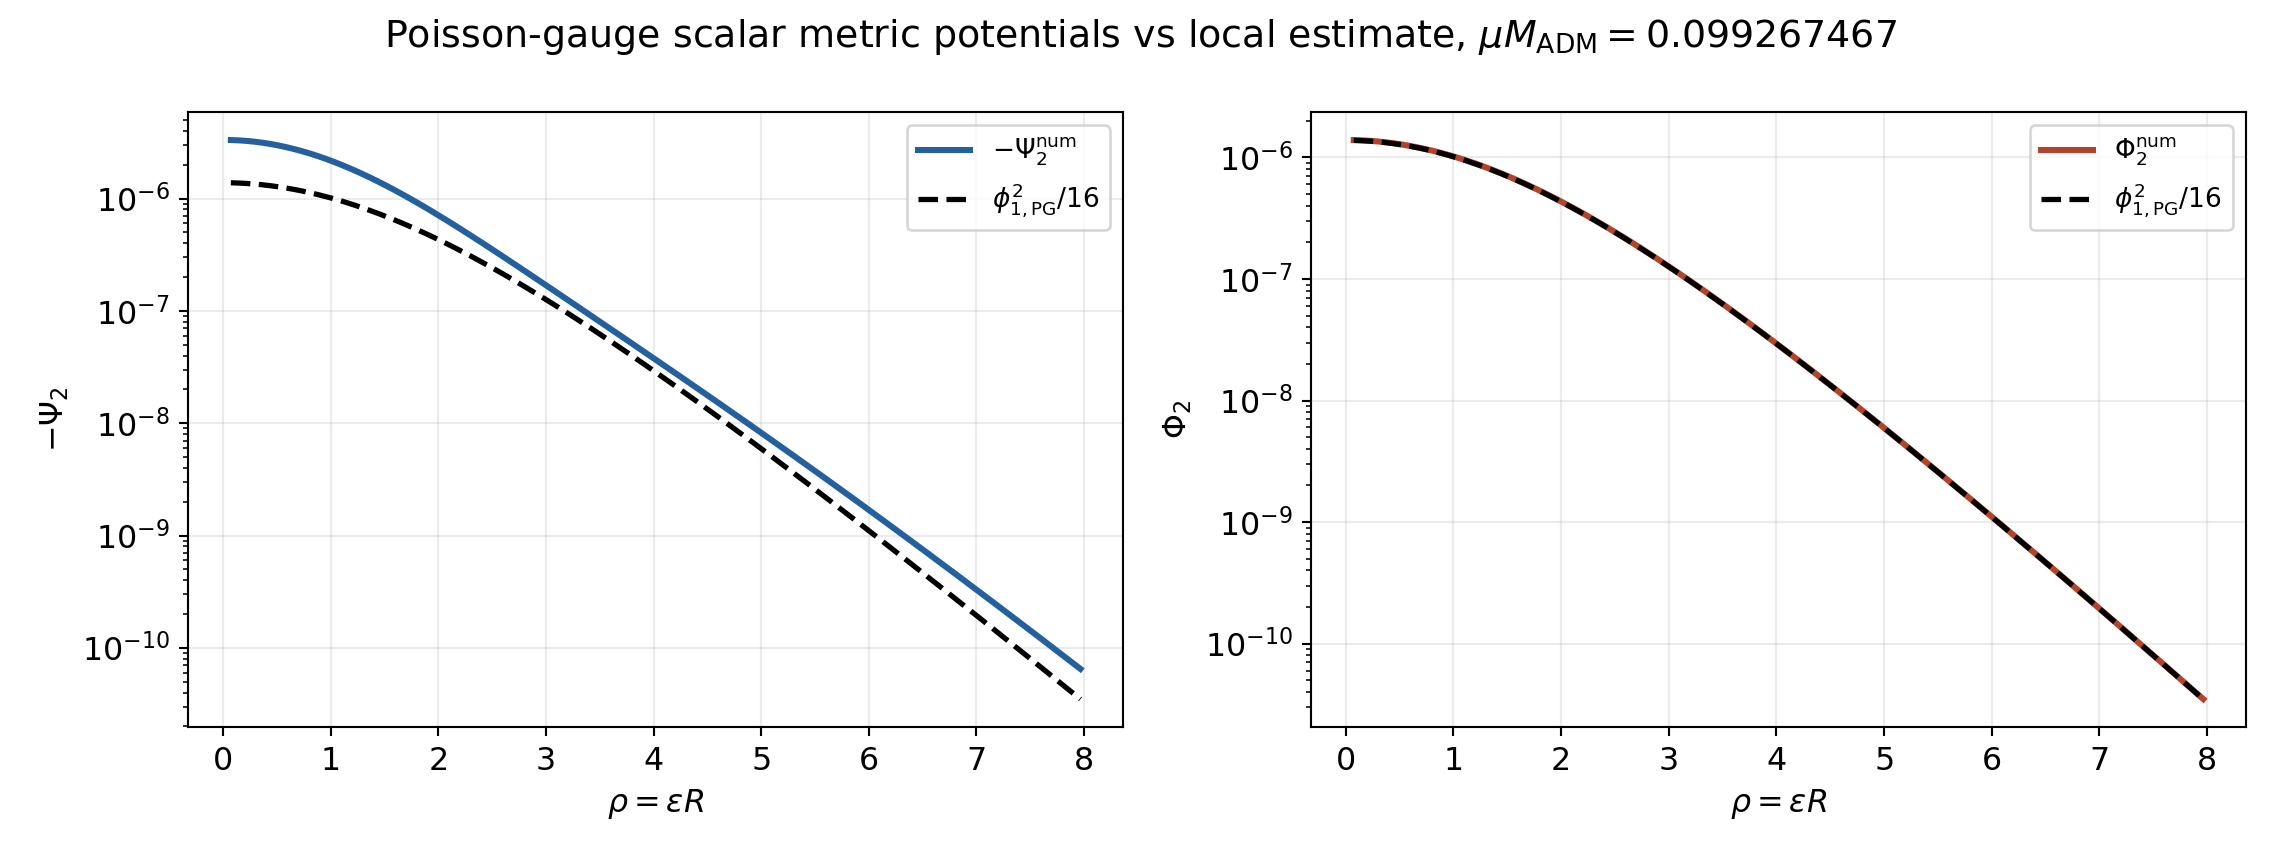
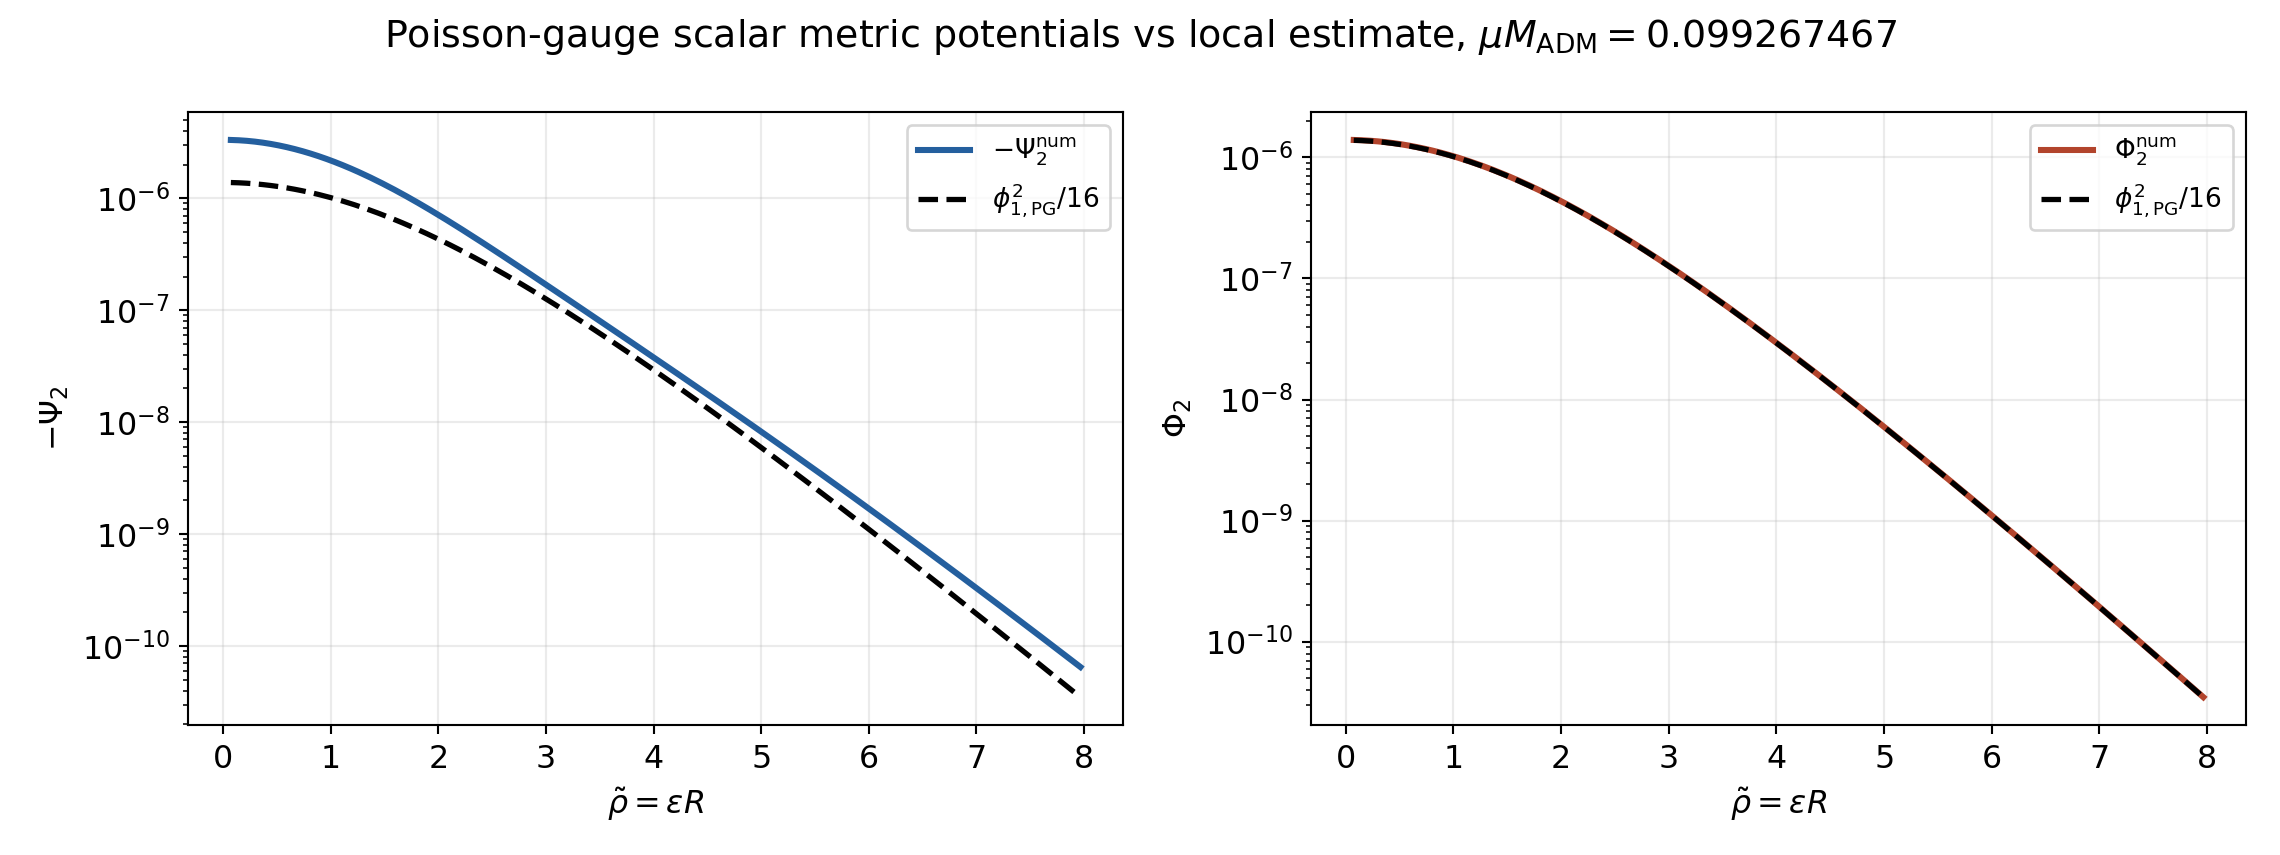
Update README

diff --git a/examples/compare_scalar_local_estimate.py b/examples/compare_scalar_local_estimate.py
@@ -244,7 +244,7 @@ def main() -> None:
         label=r"$\phi_{1,\mathrm{PG}}^2/16$",
     )
     axes[0].set_yscale("log")
-    axes[0].set_xlabel(r"$\rho=\epsilon R$")
+    axes[0].set_xlabel(r"$\tilde{\rho}=\epsilon R$")
     axes[0].set_ylabel(r"$-\Psi_2$")
     axes[0].grid(True, alpha=0.25)
     axes[0].legend(fontsize=10)
@@ -265,7 +265,7 @@ def main() -> None:
         label=r"$\phi_{1,\mathrm{PG}}^2/16$",
     )
     axes[1].set_yscale("log")
-    axes[1].set_xlabel(r"$\rho=\epsilon R$")
+    axes[1].set_xlabel(r"$\tilde{\rho}=\epsilon R$")
     axes[1].set_ylabel(r"$\Phi_2$")
     axes[1].grid(True, alpha=0.25)
     axes[1].legend(fontsize=10)

diff --git a/README.md b/README.md
@@ -82,7 +82,7 @@ $$
 For a spherical solution, the corresponding non-perturbative construction is an isotropic, Poisson-like gauge. Starting from
 
 $$
-ds^2=-\frac{A}{C}dt^2+A\,dx^2+x^2d\Omega^2,
+ds^2=-\frac{A}{C}dt^2+A\,dx^2+x^2d\Omega^2,\quad d\Omega^2=d\theta^2+\sin^2\theta\,d\phi^2,
 $$
 
 define
@@ -94,10 +94,10 @@ $$
 and impose
 
 $$
-g_{\tau R}=0,\qquad g_{RR}=\frac{g_{\theta\theta}}{R^2}\equiv \chi(\tau,R).
+g_{\tau R}=0,\qquad g_{RR}=\frac{g_{\theta\theta}}{R^2}\equiv \chi(\tau,R),
 $$
 
-These are exact spherical conditions. They become the usual Cartesian Poisson gauge only after expanding around flat space, where
+such that $ds^2=-g_{\tau\tau}d\tau^2+g_{RR}[dR^2+R^2(d\theta^2+\sin^2\theta\,d\phi^2)]$. These are exact defining conditions. They become the usual Cartesian Poisson gauge only after expanding around flat space, where
 
 $$
 g_{\tau\tau}^{\mathrm{PG}}=-(1+2\Psi+\cdots),\qquad \chi=1-2\Phi_{\mathrm{metric}}+\cdots .
@@ -132,27 +132,77 @@ $$
 > \widehat{\Phi}(t(\tau,R),x(\tau,R))\cos(\omega\tau)\,d\tau .
 > $$
 >
-> The *local* real-scalar estimate gives
+> #### Local estimate in the scalar case
+>
+> At fixed $R$, the local estimate neglects spatial gradients over one Compton period and keeps only the leading real-scalar oscillator,
+> $$
+> \widehat{\Phi}(\tau,R)=\sqrt{8\pi}\,\Phi(\tau,R)\simeq \phi_{1,\mathrm{PG}}(R)\cos(\omega\tau).
+> $$
+>
+> Here $\tau$ is the dimensionless Poisson-gauge time, $\Phi$ is the physical Klein-Gordon field, and $\partial_\tau\Phi$ is the derivative with respect to $\tau$. In the nonrelativistic limit $\omega=1+O(\epsilon^2)$, the local density and pressure are
 >
 > $$
-> \phi_{1,\mathrm{PG}}^2=16\pi\frac{\varrho_{\mathrm{loc}}}{\mu^2},
+> \varrho_{\mathrm{loc}}=\frac{\mu^2}{2}\left\langle(\partial_\tau\Phi)^2+\Phi^2\right\rangle_\tau=\frac{\mu^2\phi_{1,\mathrm{PG}}^2}{16\pi}+O(\epsilon^2\mu^2\phi_{1,\mathrm{PG}}^2),
 > $$
 >
-> where $\varrho_{\mathrm{loc}}$ is the local physical energy density entering the weak-field estimate, not the scaled plotting radius `rho`. Therefore
+> $$
+> p_{\mathrm{loc}}(\tau,R)=p_{2,\mathrm{loc}}(R)\cos(2\omega\tau)+\cdots,\qquad p_{2,\mathrm{loc}}=-\frac{\mu^2\phi_{1,\mathrm{PG}}^2}{16\pi}+O(\epsilon^2\mu^2\phi_{1,\mathrm{PG}}^2).
+> $$
+>
+> In the zero-gradient local limit, the spatial-trace part of the linear Einstein equations in these units is
+>
+> $$
+> \partial_\tau^2\Phi_{\mathrm{metric}}=\frac{4\pi}{\mu^2}p_{\mathrm{loc}}.
+> $$
+>
+> Projecting this equation onto $\cos(2\omega\tau)$ gives
+>
+> $$
+> -4\omega^2\Phi_2^{\mathrm{local}}=\frac{4\pi}{\mu^2}p_{2,\mathrm{loc}},
+> $$
+>
+> and therefore
+>
+> $$
+> \Phi_2^{\mathrm{local}}=\frac{\phi_{1,\mathrm{PG}}^2}{16}+O(\epsilon^2\phi_{1,\mathrm{PG}}^2).
+> $$
+>
+> One also finds $\Psi_2^{\mathrm{local}}\approx-\Phi_2^{\mathrm{local}}$ (e.g., by directly solving the linearized Einstein equation with a scalar plane-wave source, and taking the long-wavelength limit).
+>
+> The equivalent cosmological-perturbation statement is obtained by writing the same local homogeneous mode as
+> $$
+> ds^2=a_{\mathrm{loc}}(\tau,R)^2(-d\tau^2+d\mathbf X^2),\qquad a_{\mathrm{loc}}=1+s_2(R)\cos(2\omega\tau).
+> $$
+>
+> The linear acceleration equation, $\partial_\tau^2a_{\mathrm{loc}}/a_{\mathrm{loc}}=-(4\pi/3\mu^2)(\varrho_{\mathrm{loc}}+3p_{\mathrm{loc}})$, gives
+>
+> $$
+> s_2=-\frac{\phi_{1,\mathrm{PG}}^2}{16}+O(\epsilon^2\phi_{1,\mathrm{PG}}^2).
+> $$
+>
+> Comparing $a_{\mathrm{loc}}^2=1+2s_2\cos(2\omega\tau)$ with $ds^2=-(1+2\Psi)d\tau^2+(1-2\Phi_{\mathrm{metric}})d\mathbf X^2$ gives $\Psi_2=s_2$ and $\Phi_2=-s_2$. Thus the local real-scalar estimate and the local scale-factor-oscillation result are the same leading-order statement:
 >
 > $$
 > -\Psi_2^{\mathrm{local}}=\Phi_2^{\mathrm{local}}=\frac{\phi_{1,\mathrm{PG}}^2}{16}.
 > $$
 >
+> Equivalently, the density relation is
+> $$
+> \phi_{1,\mathrm{PG}}^2=16\pi\frac{\varrho_{\mathrm{loc}}}{\mu^2},
+> $$
+>
+> where $\varrho_{\mathrm{loc}}$ is the local physical energy density entering the weak-field estimate, not the scaled plotting radius `rho`. The oscillating metric is sourced by the local pressure oscillation; writing the answer in terms of $\varrho_{\mathrm{loc}}$ is possible because the pressure amplitude equals $\varrho_{\mathrm{loc}}$ at leading nonrelativistic order.
+>
 > Equivalently, $h_{00}=g_{\tau\tau}^{\mathrm{PG}}+1=-2\Psi+\cdots$ has $h_{00,2}^{\mathrm{local}}=\phi_{1,\mathrm{PG}}^2/8$. When plotting the potentials $-\Psi_2$ and $\Phi_2$ themselves, the reference curve is $\phi_{1,\mathrm{PG}}^2/16$.
+> $\blacksquare$
 >
 > The natural scaled radius for this transformed comparison is
 >
 > $$
-> \rho_{\mathrm{plot}}=\epsilon R,\qquad \epsilon=\sqrt{1-\omega^2}.
+> \tilde\rho=\epsilon R,\qquad \epsilon=\sqrt{1-\omega^2}.
 > $$
 >
-> In the weak scalar SP limit, $\epsilon\simeq\kappa$ and $R\simeq x$, so this agrees with the older SP-scaled radius $\kappa x$.
+> In the weak scalar SP limit, $\epsilon=\kappa\sqrt{V_\infty}+O(\kappa^3)$ and $R\simeq x$, so $\tilde\rho=\sqrt{V_\infty}\,\kappa x+O(\kappa^3x)$.
 
 ## Scalar Field
 
@@ -300,12 +350,14 @@ Basic numerical checks are: `profile.metadata["success"]` should be true, `profi
 
 ## Nonrelativistic References
 
+Here we use the scalar SP and radial-vector SP solutions in the nonrelativistic approximation to construct the corresponding $\{A_0(x),C_0(x),M({<}x)\}$ profiles.
+
 > Start from the nonrelativistic real-scalar ansatz
 >
 > $$
-> \Phi=\frac{1}{\sqrt{2\mu}}\left(\psi e^{-i\mu t}+\psi^*e^{i\mu t}\right),
+> \Phi=\frac{1}{\sqrt{2\mu}}\left(\psi e^{-i\mu t_\text{phys}}+\psi^*e^{i\mu t_\text{phys}}\right),
 > \qquad
-> \psi=f(r)e^{-i\mathcal{E}t}.
+> \psi=f(r)e^{-i\mathcal{E}t_\text{phys}}.
 > $$
 >
 > Introducing
@@ -317,15 +369,15 @@ Basic numerical checks are: `profile.metadata["success"]` should be true, `profi
 > V(x)=2\left(\Phi_N-\frac{\mathcal{E}}{\mu}\right),
 > $$
 >
-> the Schrödinger-Poisson equation ($i\partial_t\psi=-\frac{\nabla^2\psi}{2\mu}+\mu\Phi_N\psi$, $\nabla^2\Phi_N=4\pi\mu|\psi|^2$) reduces to
+> the Schrodinger-Poisson (SP) equation ($i\partial_{t_\text{phys}}\psi=-\frac{\nabla^2\psi}{2\mu}+\mu\Phi_N\psi$, $\nabla^2\Phi_N=4\pi\mu|\psi|^2$) reduces to
 >
 > $$
-> F''+\frac{2}{x}F'=VF,
+> \partial_x^2F+\frac{2}{x}\partial_xF=VF,
 > \qquad
-> V''+\frac{2}{x}V'=F^2.
+> \partial_x^2V+\frac{2}{x}\partial_xV=F^2.
 > $$
 >
-> (prime denotes $\partial_x$) The scaling symmetry can be introduced afterwards:
+> The scaling symmetry can be introduced afterwards:
 >
 > $$
 > F_\kappa(x)=\kappa^2F_1(\kappa x),
@@ -333,47 +385,49 @@ Basic numerical checks are: `profile.metadata["success"]` should be true, `profi
 > V_\kappa(x)=\kappa^2V_1(\kappa x),
 > $$
 >
-> With $F_1(0)=1$, this gives $F_\kappa(0)=\kappa^2$. The ansatz above gives $\widehat{\Phi}_1=\sqrt{8\pi}\sqrt{2/\mu}\,f$, while $F_\kappa=\sqrt{8\pi/\mu}\,f$, so the rescaled-field Fourier coefficient is $\phi_1=\sqrt{2}\,F_\kappa$. With $y=\kappa x$, this gives $F_1(y)=\phi_1(y/\kappa)/(\sqrt{2}\,\kappa^2)$.
+> With $F_1(0)=1$, this gives $F_\kappa(0)=\kappa^2$. The ansatz above gives $\Phi=\sqrt{2/\mu}\,f\cos\left[(\mu+\mathcal{E})t_\text{phys}\right]$, so $\widehat{\Phi}_1=\sqrt{8\pi}\sqrt{2/\mu}\,f$, while $F_\kappa=\sqrt{8\pi/\mu}\,f$, so the rescaled-field Fourier coefficient is $\phi_1=\sqrt{2}\,F_\kappa$. With $y=\kappa x$, this gives $F_1(y)=\phi_1(y/\kappa)/(\sqrt{2}\,\kappa^2)$. The energy level is $\mathcal{E}/\mu=-\frac{1}{2}\kappa^2V_1(\infty)$, or $\omega=(\mu+\mathcal{E})/\mu=1-\frac{1}{2}\kappa^2V_1(\infty)$.
 >
 > -------
 >
-> In the Proca case, the SP equation reads
+> In the Proca case, the SP equation is
 > $$
-> i\partial_t\vec\psi=-\frac{\nabla^2\vec\psi}{2\mu}+\mu\Phi_N\vec\psi,\quad \nabla^2\Phi_N=4\pi\mu|\vec \psi|^2.
+> i\partial_{t_\text{phys}}\vec\psi=-\frac{\nabla^2\vec\psi}{2\mu}+\mu\Phi_N\vec\psi,\quad \nabla^2\Phi_N=4\pi\mu|\vec \psi|^2.
 > $$
 >
 > Here we use the radial spherical sector
 >
 > $$
-> \vec\psi=f(r)e^{-i\mathcal{E}t}\vec e_r.
+> \vec\psi=f(r)e^{-i\mathcal{E}t_\text{phys}}\vec e_r.
 > $$
 >
-> The vector Laplacian of a radial vector field is
+> Using
 >
 > $$
-> \nabla^2\left(f(r)\vec e_r\right)=\left(f''+\frac{2}{r}f'-\frac{2}{r^2}f\right)\vec e_r.
+> \nabla^2\left[f(r)\vec e_r\right]=\left(\partial_r^2f+\frac{2}{r}\partial_rf-\frac{2}{r^2}f\right)\vec e_r.
 > $$
 >
-> Therefore
+> the SP equation reads
 >
 > $$
-> f''+\frac{2}{r}f'-\frac{2}{r^2}f=2\mu(\mu\Phi_N-\mathcal{E})f.
+> \partial_r^2f+\frac{2}{r}\partial_rf-\frac{2}{r^2}f=2\mu(\mu\Phi_N-\mathcal{E})f.
 > $$
 >
 > Using the same dimensionless definitions $x=\mu r$, $F=\sqrt{8\pi/\mu}\,f$, and $V=2(\Phi_N-\mathcal{E}/\mu)$ gives
 >
 > $$
-> F''+\frac{2}{x}F'-\frac{2}{x^2}F=VF,
+> \partial_x^2F+\frac{2}{x}\partial_xF-\frac{2}{x^2}F=VF,
 > \qquad
-> V''+\frac{2}{x}V'=F^2.
+> \partial_x^2V+\frac{2}{x}\partial_xV=F^2.
 > $$
 >
-> *Note that there is an extra $-2F/x^2$ term.* Regularity at the origin requires $F(0)=0$, and the scaling freedom is fixed here by choosing $F'(0)=1$. The radial-vector scaling symmetry is written with $\lambda$:
+> *Note that there is an extra $-2F/x^2$ term.* Regularity at the origin requires $F(0)=0$, and the scaling freedom is fixed here by choosing $\partial_xF(0)=1$. The radial-vector scaling symmetry is written with $\lambda$:
 > $$
 > F_\lambda(x)=\lambda^2F_1(\lambda x),
 > \qquad
 > V_\lambda(x)=\lambda^2V_1(\lambda x).
 > $$
+
+Below we denote $F=F_1$, $V=V_1$, and $V_\infty=V_1(\infty)$.
 
 For the scalar branch, define the scaled radius by
 $$
@@ -413,7 +467,7 @@ $$
 With these definitions, the scalar SP ground state solves
 
 $$
-F''+\frac{2}{y}F'=VF, \qquad V''+\frac{2}{y}V'=F^2.
+\partial_y^2F+\frac{2}{y}\partial_yF=VF, \qquad \partial_y^2V+\frac{2}{y}\partial_yV=F^2.
 $$
 
 The inverse relation for the relativistic scalar profile is
@@ -457,11 +511,11 @@ The minus sign is the code convention for positive `u1_center`. The first Proca 
 $$
 u_1(x)=\lambda^3
 \left[
-F'(\lambda x)+\frac{2F(\lambda x)}{\lambda x}
+\partial_yF(\lambda x)+\frac{2F(\lambda x)}{\lambda x}
 \right]+O(\lambda^5).
 $$
 
-Thus, for the normalization $F'(0)=1$, one has $u_1(0)=3\lambda^3+O(\lambda^5)$. The radial-vector SP potential $V$ is defined from the metric in the same way as above,
+Thus, for the normalization $\partial_yF(0)=1$, one has $u_1(0)=3\lambda^3+O(\lambda^5)$. The radial-vector SP potential $V$ is defined from the metric in the same way as above,
 
 $$
 V_\infty=\lim_{\lambda\to0}\frac{1-\omega^2}{\lambda^2},
@@ -473,7 +527,7 @@ $$
 The radial-vector SP ground state solves
 
 $$
-F''+\frac{2}{y}F'-\frac{2}{y^2}F=VF, \qquad V''+\frac{2}{y}V'=F^2.
+\partial_y^2F+\frac{2}{y}\partial_yF-\frac{2}{y^2}F=VF, \qquad \partial_y^2V+\frac{2}{y}\partial_yV=F^2.
 $$
 
 The total mass and binding scale as
@@ -497,7 +551,7 @@ $$
 | `tol` | Boundary-value solver tolerance. |
 | `mass_tol` | Relative tolerance used by the mass-tuning wrapper. |
 | `x_max` | Outer radial boundary in dimensionless radius $x$. |
-| `rho` | Scaled plotting radius. The scalar/vector/SP comparison uses $\rho=\kappa x$; the Poisson-gauge local-estimate comparison uses $\rho=\epsilon R$. |
+| `rho` | Scaled plotting radius. The scalar/vector/SP comparison uses $\rho=\kappa x$; the Poisson-gauge local-estimate comparison uses $\tilde\rho=\epsilon R$. |
 | `A0`, `C0` | Code arrays storing the zero Fourier modes of `A` and `C`. |
 | `A2`, `C2` | Code arrays storing the second Fourier modes of `A` and `C`. |
 | `M0` | Code array storing $M({<}x)=x(1-1/A_0)/2$, the enclosed-mass function built from the zero Fourier mode of `A`. |
